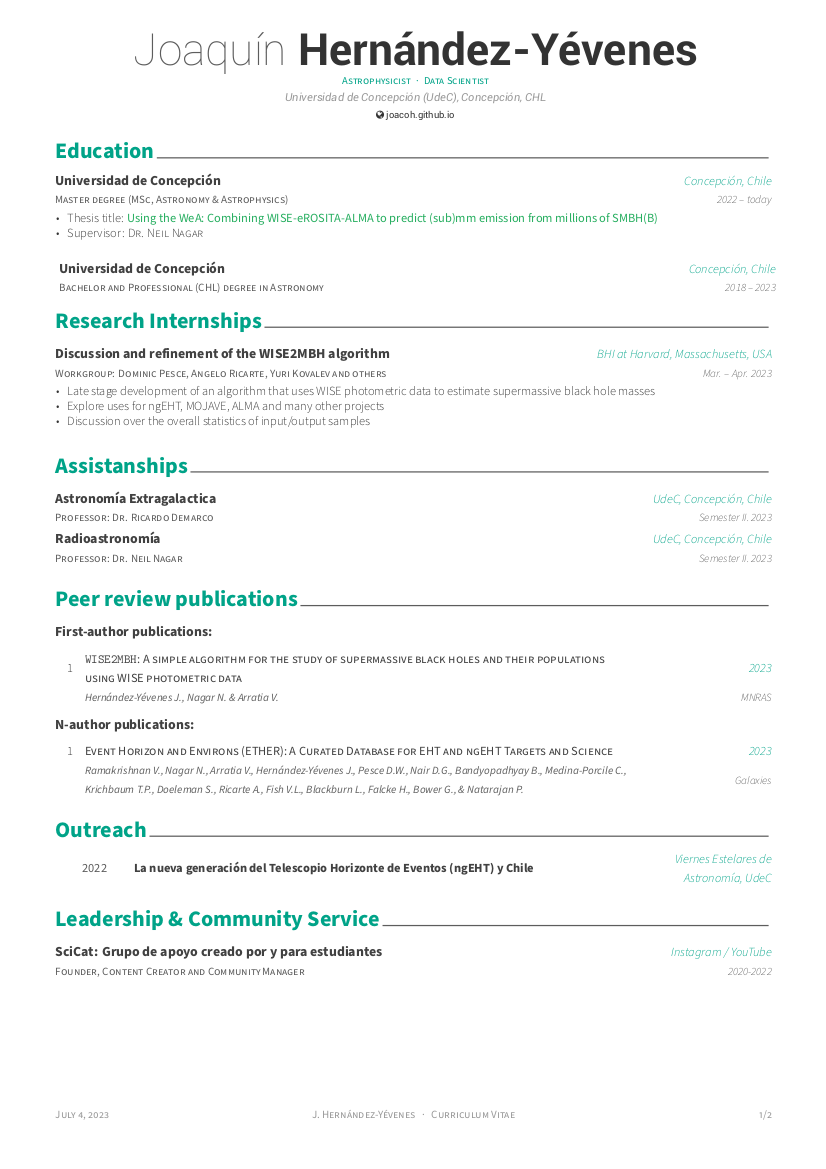
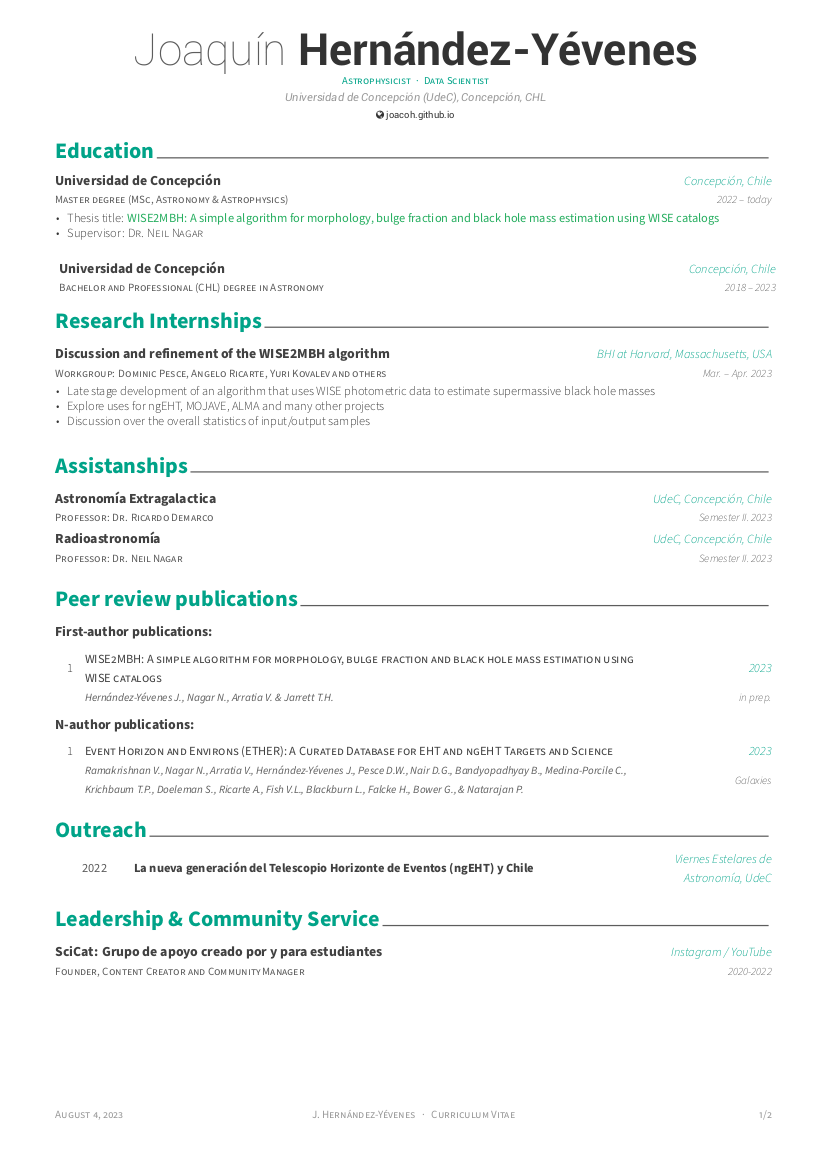
Update to August 4th

Changed region(s): [[0.1513, 0.1848, 0.7869, 0.2156], [0.0908, 0.5543, 0.4237, 0.6159], [0.454, 0.5543, 0.7567, 0.5851]]

diff --git a/cv.tex b/cv.tex
@@ -27,7 +27,7 @@
 % Color for highlights
 % Awesome Colors: awesome-emerald, awesome-skyblue, awesome-red, awesome-pink, awesome-orange
 %                 awesome-nephritis, awesome-concrete, awesome-darknight
-\colorlet{awesome}{awesome-nephritis}
+\colorlet{awesome}{awesome-emerald}
 % Uncomment if you would like to specify your own color
 % \definecolor{awesome}{HTML}{CA63A8}
 
@@ -52,7 +52,7 @@
 \input{data/infos.tex}
 
 \lfooter{\today}
-\cfooter{B. Seignovert~~~·~~~Curriculum Vitae}
+\cfooter{J. Hernández-Yévenes~~~·~~~Curriculum Vitae}
 \rfooter{\thepage/\pageref{LastPage}}
 
 %-------------------------------------------------------------------------------
@@ -70,20 +70,16 @@
 %	CV/RESUME CONTENT
 %	Each section is imported separately, open each file in turn to modify content
 %-------------------------------------------------------------------------------
-\input{data/employment.tex}
+%\input{data/employment.tex}
 \input{data/education.tex}
 \input{data/internship.tex}
-\clearpage
+\input{data/assistanships.tex}
 \input{data/publications.tex}
-\clearpage
-\input{data/seminars.tex}
-\input{data/training.tex}
-\input{data/honors.tex}
-\clearpage
 \input{data/outreach.tex}
 \input{data/community.tex}
+\newpage
+\input{data/certificates}
 \input{data/skills.tex}
-\input{data/activities.tex}
 \input{data/other.tex}
 %-------------------------------------------------------------------------------
 \end{document}

diff --git a/data/publications.tex b/data/publications.tex
@@ -3,18 +3,11 @@
 \begin{cvpublications}{First-author publications:}
 
 	 \cvpublication{1}
-	 {\texttt{WISE2MBH}: A simple algorithm for the study of supermassive black holes and their populations using WISE photometric data}
-	 {Hernández-Yévenes J., Nagar N. \& Arratia V.}
+	 {WISE2MBH: A simple algorithm for morphology, bulge fraction and black hole mass estimation using WISE catalogs}
+	 {Hernández-Yévenes J., Nagar N., Arratia V. \& Jarrett T.H.}
 	 {2023}
-     {MNRAS}
+     {in prep.}
      {}
-     
-%	\cvpublication{1}
-%	{Aerosols optical properties in Titan's Detached Haze Layer before the equinox}
-%	{Seignovert B., Rannou P., Lavvas P., Cours T. \& West R.A.}
-%	{2017}
-%	{Icarus}
-%	{https://doi.org/10.1016/j.icarus.2015.07.038}
 
 \end{cvpublications}
 

diff --git a/data/education.tex b/data/education.tex
@@ -9,7 +9,8 @@
     {2022 -- today}
     {
       \begin{cvitems}
-        \item{Thesis title: \cvwebsite{https://postgrado.udec.cl/programas/academico/200800127350}{Using the WeA: Combining WISE-eROSITA-ALMA to predict (sub)mm emission from millions of SMBH(B)}}
+        \item{Thesis title: \cvwebsite{https://postgrado.udec.cl/programas/academico/200800127350}{WISE2MBH: A simple algorithm for morphology, bulge fraction and
+black hole mass estimation using WISE catalogs}}
         \item{Supervisor: \textsc{Dr. Neil Nagar}}
       \end{cvitems}
       \vspace{1em}
